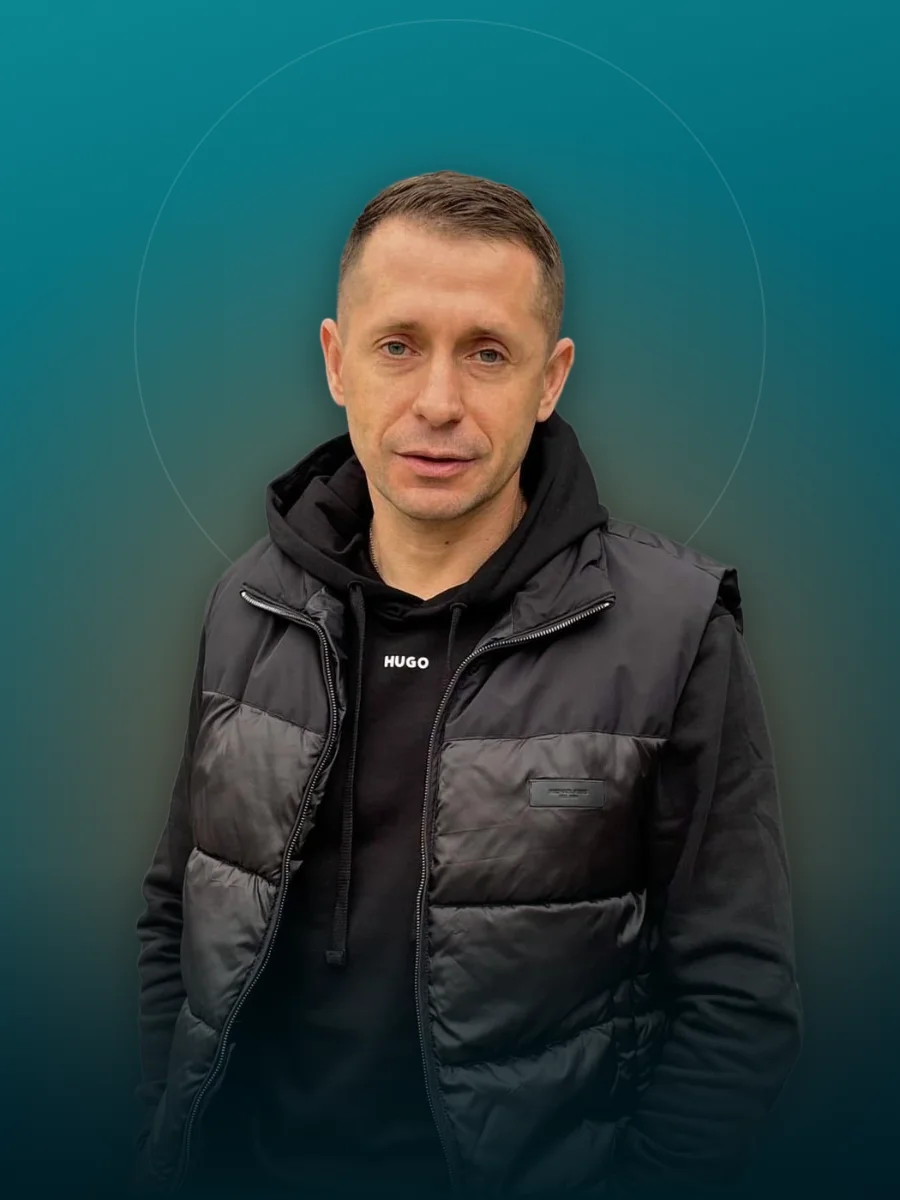
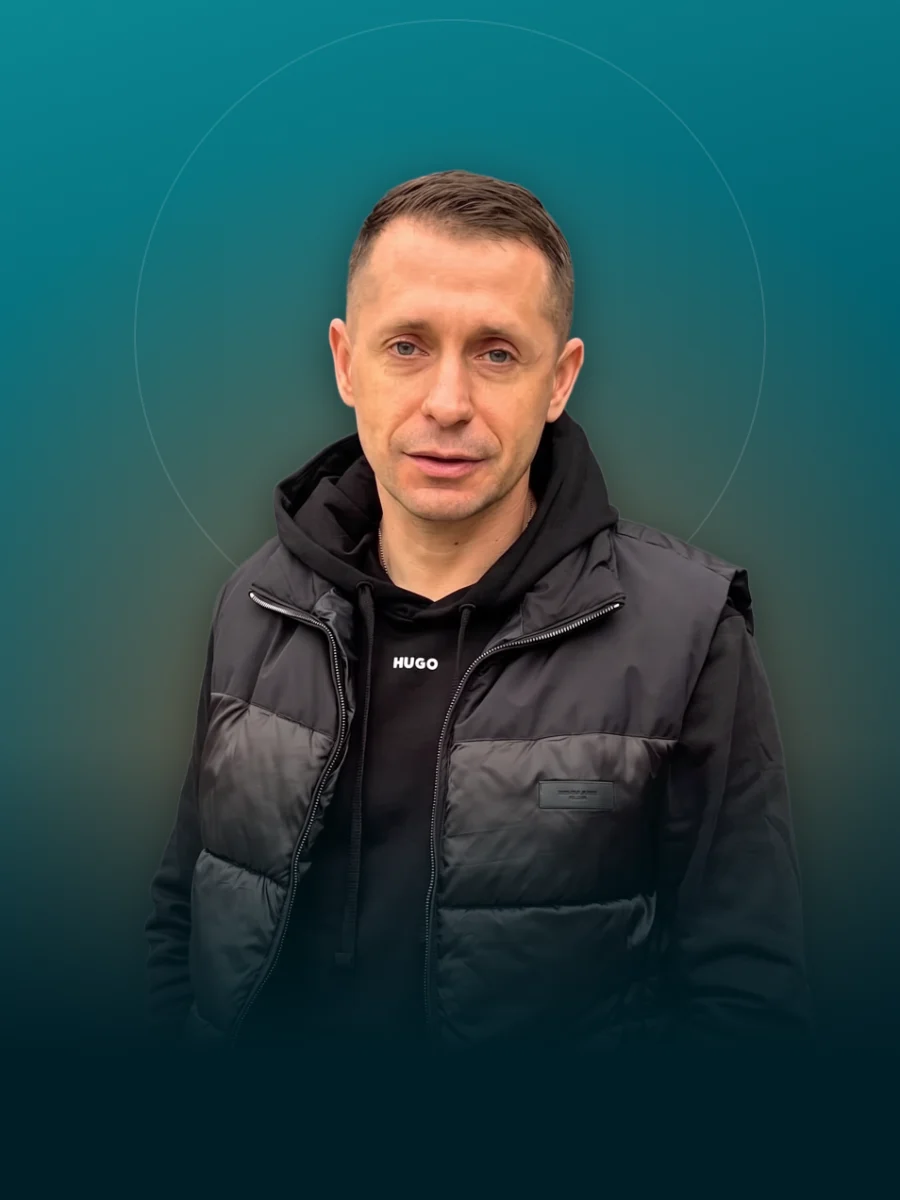
Кольорокорекція фото команди, нова бетономішалка, помаранчеве наведення карток
Фото команди вирівняні по кольору в Higgsfield (прибрано синій відтінок
в Олександра), бетономішалка перегенерована з чистим контуром на прозорому тлі.
Плашки-виділення в усіх заголовках, смуги в секції «Бетон» прибрано.

Changed region(s): [[0.1556, 0.1233, 0.84, 0.9558], [0.8089, 0.74, 0.9022, 0.8633], [0.7778, 0.8325, 0.8089, 0.8633]]

diff --git a/index.html b/index.html
@@ -376,15 +376,36 @@ footer .in{display:flex;flex-wrap:wrap;gap:16px 32px;justify-content:space-betwe
 .hex.wh{--hx:#fff}
 .hex.wh svg *{stroke:var(--signal)}
 .hex.wh svg circle{fill:#fff}
-.mixer-art{position:relative;width:min(38vw,520px);aspect-ratio:480/330;max-width:100%;justify-self:end;margin-bottom:-24px}
-.mixer-art i{position:absolute;top:2%;height:66%;transform:skewX(-28deg)}
-.mixer-art i:nth-child(1){left:-22%;width:30%;background:var(--signal)}
-.mixer-art i:nth-child(2){left:11%;width:13%;background:var(--teal)}
-.mixer-art i:nth-child(3){left:27%;width:5%;background:var(--asphalt)}
-.mixer-art img{position:relative;width:100%;height:auto;display:block;filter:drop-shadow(0 22px 18px rgba(0,0,0,.22))}
+.mixer-art{position:relative;width:min(40vw,560px);max-width:100%;justify-self:end;margin-bottom:-24px}
+#beton{position:relative;overflow:hidden}
+#beton > .in{position:relative;z-index:1}
+.stripes{position:absolute;inset:0;pointer-events:none}
+.stripes i{position:absolute;top:-4%;bottom:-4%;transform:skewX(-22deg);transform-origin:bottom}
+.stripes i:nth-child(1){left:63%;width:max(150px,13vw);background:var(--signal)}
+.stripes i:nth-child(2){left:calc(63% + max(150px,13vw) + 1.4vw);width:max(56px,5vw);background:var(--teal)}
+.stripes i:nth-child(3){left:calc(63% + max(150px,13vw) + 7.6vw);width:max(20px,1.8vw);background:var(--asphalt)}
+.slant{line-height:1;margin-block:.06em}
+.slant.or{background:var(--signal)}
+.slant.or::after{background:var(--teal)}
+.dark .slant.or::after,.photo .slant.or::after{background:var(--teal-lt)}
+@media (max-width:1040px){.stripes i:nth-child(1){left:55%}.stripes{opacity:.9}.stripes i{top:-2%;bottom:auto;height:46%}}
+.mixer-art img{position:relative;width:100%;height:auto;display:block}
 #tekhnika::before{content:"";position:absolute;top:0;right:0;width:min(62vw,900px);height:min(36vw,440px);pointer-events:none;
   background:linear-gradient(118deg,transparent 0 34%,var(--teal) 34% 46%,transparent 46% 51%,var(--signal) 51% 60%,transparent 60% 64%,rgba(255,255,255,.06) 64% 67%,transparent 67%);opacity:.9}
 .loader{scale:-1 1}
+/* наведення: картка стає помаранчевою, як перша, іконка — біла */
+.mach,.flow li{transition:background .3s ease,border-color .3s ease,color .3s ease,transform .3s ease}
+.hex{transition:background .3s ease}
+.hex svg *{transition:stroke .3s ease,fill .3s ease}
+.mach:hover{background:var(--signal);color:#fff}
+.mach:hover p{color:#FFE5D6}
+.mach:hover a{color:#fff}
+.mach:hover .hex{--hx:#fff}
+.mach:hover .hex svg *{stroke:var(--signal)}
+.mach:hover .hex svg circle{fill:#fff}
+.photo .flow li:hover{background:var(--signal);border-color:var(--signal);transform:translateY(-4px)}
+.photo .flow li:hover::before{color:#fff}
+.photo .flow li:hover p{color:#FFE5D6}
 .person .c{position:absolute;inset:0;opacity:0;transition:opacity .45s ease,transform .6s ease}
 .person:hover .c,.person:focus-within .c{opacity:1}
 @media (max-width:1040px){.mixer-art{width:min(80vw,460px);justify-self:start;margin-bottom:0}}
@@ -402,10 +423,10 @@ html.anim .rv{opacity:0;translate:0 30px;transition:opacity .7s ease var(--d,0ms
 html.anim .rv.seen{opacity:1;translate:none}
 html.anim .mixer-art img{opacity:0}
 html.anim .mixer-art.seen img{opacity:1;animation:drive 1.3s cubic-bezier(.16,.8,.24,1) both,idle 1.6s ease-in-out 1.4s infinite}
-html.anim .mixer-art i{transform:skewX(-28deg) scaleY(0);transform-origin:bottom;transition:transform .7s cubic-bezier(.2,.7,.2,1)}
-html.anim .mixer-art.seen i{transform:skewX(-28deg) scaleY(1)}
-html.anim .mixer-art.seen i:nth-child(2){transition-delay:.12s}
-html.anim .mixer-art.seen i:nth-child(3){transition-delay:.24s}
+html.anim #beton .stripes i{transform:skewX(-22deg) scaleY(0);transition:transform 1.1s cubic-bezier(.2,.7,.2,1)}
+html.anim #beton.seen .stripes i{transform:skewX(-22deg) scaleY(1)}
+html.anim #beton.seen .stripes i:nth-child(2){transition-delay:.12s}
+html.anim #beton.seen .stripes i:nth-child(3){transition-delay:.24s}
 html.anim .loader{opacity:0}
 html.anim .loader.seen{opacity:1;--from:240px;animation:drive 1.4s cubic-bezier(.16,.8,.24,1) both}
 html.anim #tekhnika::before{clip-path:inset(0 0 0 100%);transition:clip-path 1.1s cubic-bezier(.2,.7,.2,1)}
@@ -414,7 +435,7 @@ html.anim #tekhnika.seen::before{clip-path:inset(0 0 0 0)}
 
 @media (prefers-reduced-motion:reduce){*{transition:none!important;animation:none!important}html{scroll-behavior:auto}
   html.anim .rv,html.anim .mixer-art img,html.anim .loader{opacity:1;translate:none}
-  html.anim .mixer-art i{transform:skewX(-28deg)}html.anim #tekhnika::before{clip-path:none}}
+  html.anim #beton .stripes i{transform:skewX(-22deg)}html.anim #tekhnika::before{clip-path:none}}
 </style>
 
 <header class="top">
@@ -435,7 +456,7 @@ html.anim #tekhnika.seen::before{clip-path:inset(0 0 0 0)}
   <div class="in">
     <div>
       <span class="eyebrow">Дилер заводу Ковальська · Київ і область</span>
-      <h1>Бетон. Бруківка. <span class="o">Техніка.</span><span class="s">Все для будмайданчика від одного постачальника</span></h1>
+      <h1>Бетон. Бруківка. <span class="slant or"><span>Техніка.</span></span><span class="s">Все для будмайданчика від одного постачальника</span></h1>
       <p class="lead">Бетон від В7,5 до В35, тротуарна плитка, кільця й плити перекриття. Привеземо своєю технікою, подамо насосом і покладемо плитку під ключ.</p>
       <div class="ctas">
         <a class="btn btn-or" href="#calc">Прорахувати замовлення <svg viewBox="0 0 24 24" fill="none" stroke="currentColor" stroke-width="2.4"><path d="M5 12h14M13 6l6 6-6 6"/></svg></a>
@@ -479,10 +500,9 @@ html.anim #tekhnika.seen::before{clip-path:inset(0 0 0 0)}
 </div></div>
 
 <!-- БЕТОН -->
-<section class="band" id="beton">
-  <div class="in">
+<section class="band" id="beton">  <div class="in">
     <div class="band-head"><div><span class="eyebrow">Бетон</span><h2>Який бетон? <span class="slant"><span>Якісний</span></span></h2><p class="lead">Сім марок — від стяжки до перекриття. Привеземо міксером і подамо насосом.</p></div>
-      <div class="mixer-art" aria-hidden="true"><i></i><i></i><i></i><img src="img/betonozmishuvach.webp" alt="" width="480" height="330"></div></div>
+      <div class="mixer-art" aria-hidden="true"><img src="img/betonozmishuvach.webp" alt="" width="1200" height="761"></div></div>
     <div class="beton">
       <div class="grades">
         <span class="lbl" style="font:700 11px/1 var(--mono);letter-spacing:.1em;text-transform:uppercase;color:var(--mut)">Оберіть марку</span>
@@ -510,7 +530,7 @@ html.anim #tekhnika.seen::before{clip-path:inset(0 0 0 0)}
 <!-- БРУКІВКА -->
 <section class="band" id="bruk" style="padding-top:0">
   <div class="in">
-    <div class="band-head"><div><span class="eyebrow">Бруківка Ковальська</span><h2>Оберіть колір — побачите двір</h2></div><a class="btn btn-line" href="#calc">Укладання під ключ</a></div>
+    <div class="band-head"><div><span class="eyebrow">Бруківка Ковальська</span><h2>Оберіть колір — <span class="slant"><span>побачите двір</span></span></h2></div><a class="btn btn-line" href="#calc">Укладання під ключ</a></div>
 
     <div class="show">
       <div class="pave" id="pave" role="img" aria-label="Візуалізація укладеної плитки Лайнстоун"><img id="pimg" src="img/ls-terra.webp" alt="Лайнстоун 20, колір терра"><span class="lab" id="plab">Лайнстоун · терра</span></div>
@@ -535,7 +555,7 @@ html.anim #tekhnika.seen::before{clip-path:inset(0 0 0 0)}
 <!-- ЗБВ -->
 <section class="band" id="zbv" style="padding-top:0">
   <div class="in">
-    <div class="band-head"><div><span class="eyebrow">Залізобетонні вироби</span><h2>Кільця, плити, балки — з доставкою краном</h2></div></div>
+    <div class="band-head"><div><span class="eyebrow">Залізобетонні вироби</span><h2>Кільця, плити, балки — з&nbsp;доставкою <span class="slant or"><span>краном</span></span></h2></div></div>
     <div class="zbv">
       <div class="zb">
         <svg viewBox="0 0 200 120" fill="none" stroke="#141517" stroke-width="2"><ellipse cx="100" cy="30" rx="60" ry="16" fill="#CFD0CB"/><ellipse cx="100" cy="30" rx="46" ry="11" fill="#E4E5E1"/><path d="M40 30v60c0 9 27 16 60 16s60-7 60-16V30" fill="#BDBEB9"/><path d="M40 60c0 9 27 16 60 16s60-7 60-16" stroke-dasharray="4 4"/></svg>
@@ -557,7 +577,7 @@ html.anim #tekhnika.seen::before{clip-path:inset(0 0 0 0)}
 <section class="band dark" id="tekhnika">
   <div class="in">
     <img class="loader" src="img/navantazhuvach.png" alt="" aria-hidden="true" width="691" height="418">
-    <div class="band-head tech-head"><div><span class="eyebrow">Свій автопарк</span><h2>Спецтехніка на ваш об'єкт</h2><p class="lead">Оренда й подача техніки в будь-яку точку Києва та Київської області.</p><a class="btn btn-line" href="#kontakty">Замовити на дату</a></div></div>
+    <div class="band-head tech-head"><div><span class="eyebrow">Свій автопарк</span><h2>Спецтехніка <span class="slant"><span>на ваш об'єкт</span></span></h2><p class="lead">Оренда й подача техніки в будь-яку точку Києва та Київської області.</p><a class="btn btn-line" href="#kontakty">Замовити на дату</a></div></div>
     <div class="fleet">
       <div class="mach hl">
         <svg viewBox="0 0 84 52" fill="none" stroke="#F46322" stroke-width="2.4" stroke-linejoin="round"><rect x="3" y="26" width="44" height="14" rx="2"/><path d="M47 40V28h16l14 10v2z"/><circle cx="16" cy="43" r="6" fill="currentColor"/><circle cx="64" cy="43" r="6" fill="currentColor"/><path d="M12 26 30 6h24l10 10"/><path d="M64 16v10"/></svg>
@@ -590,7 +610,7 @@ html.anim #tekhnika.seen::before{clip-path:inset(0 0 0 0)}
 <!-- ЯК ПРАЦЮЄМО -->
 <section class="band photo" id="flow">
   <div class="in">
-    <div class="band-head"><div><span class="eyebrow">Як ми працюємо</span><h2>Від дзвінка до готового двору</h2></div></div>
+    <div class="band-head"><div><span class="eyebrow">Як ми працюємо</span><h2>Від дзвінка до <span class="slant or"><span>готового двору</span></span></h2></div></div>
     <ol class="flow">
       <li class="now"><span class="t num">5 хв</span><h3>Заявка</h3><p>Залишаєте заявку або дзвоните — менеджер передзвонить протягом 5 хвилин.</p></li>
       <li><h3>Прорахунок</h3><p>Підбираємо продукцію, рахуємо доставку й техніку під ваш об'єкт. Пояснюємо систему знижок.</p></li>
@@ -603,7 +623,7 @@ html.anim #tekhnika.seen::before{clip-path:inset(0 0 0 0)}
 <!-- ПРО НАС -->
 <section class="band" id="about">
   <div class="in">
-    <div class="band-head"><div><span class="eyebrow">Про нас</span><h2>Починали з кількох міксерів</h2></div></div>
+    <div class="band-head"><div><span class="eyebrow">Про нас</span><h2>Починали з&nbsp;<span class="slant"><span>кількох міксерів</span></span></h2></div></div>
     <div class="about">
       <div class="story">
         <p>Ми стартували як маленька компанія, що мала лише декілька автобетонозмішувачів, і зі співпраці із заводом Ковальська.</p>
@@ -630,7 +650,7 @@ html.anim #tekhnika.seen::before{clip-path:inset(0 0 0 0)}
   <div class="in contact">
     <div>
       <span class="eyebrow">Контакти</span>
-      <h2 style="margin-top:18px">Дзвоніть — <span class="o">прорахуємо</span> сьогодні</h2>
+      <h2 style="margin-top:18px">Дзвоніть — <span class="slant or"><span>прорахуємо</span></span> сьогодні</h2>
       <div class="lines">
         <div><span class="k">Телефон</span><div class="v tels"><a href="tel:+380973151520">+380 97 315 15 20</a><a href="tel:+380932504041">+380 93 250 40 41</a><a href="tel:+380733151520">+380 73 315 15 20</a></div></div>
         <div><span class="k">Офіс</span><div class="v">вулиця Сім'ї Кульженків, 14, Київ</div></div>
@@ -777,7 +797,7 @@ html.anim #tekhnika.seen::before{clip-path:inset(0 0 0 0)}
       el.style.setProperty("--d",Math.min(sib.indexOf(el),6)*80+"ms");
     });
     const io=new IntersectionObserver(es=>es.forEach(e=>{if(e.isIntersecting){e.target.classList.add("seen");io.unobserve(e.target)}}),{threshold:.18,rootMargin:"0px 0px -6% 0px"});
-    document.querySelectorAll(".rv,.mixer-art,.loader,#tekhnika").forEach(el=>io.observe(el));
+    document.querySelectorAll(".rv,.mixer-art,.loader,#tekhnika,#beton").forEach(el=>io.observe(el));
     // нові картки каталогу після фільтра — одразу видимі
     new MutationObserver(()=>document.querySelectorAll("#grid .card:not(.rv)").forEach(c=>c.classList.add("rv","seen"))).observe($("grid"),{childList:true});
 
